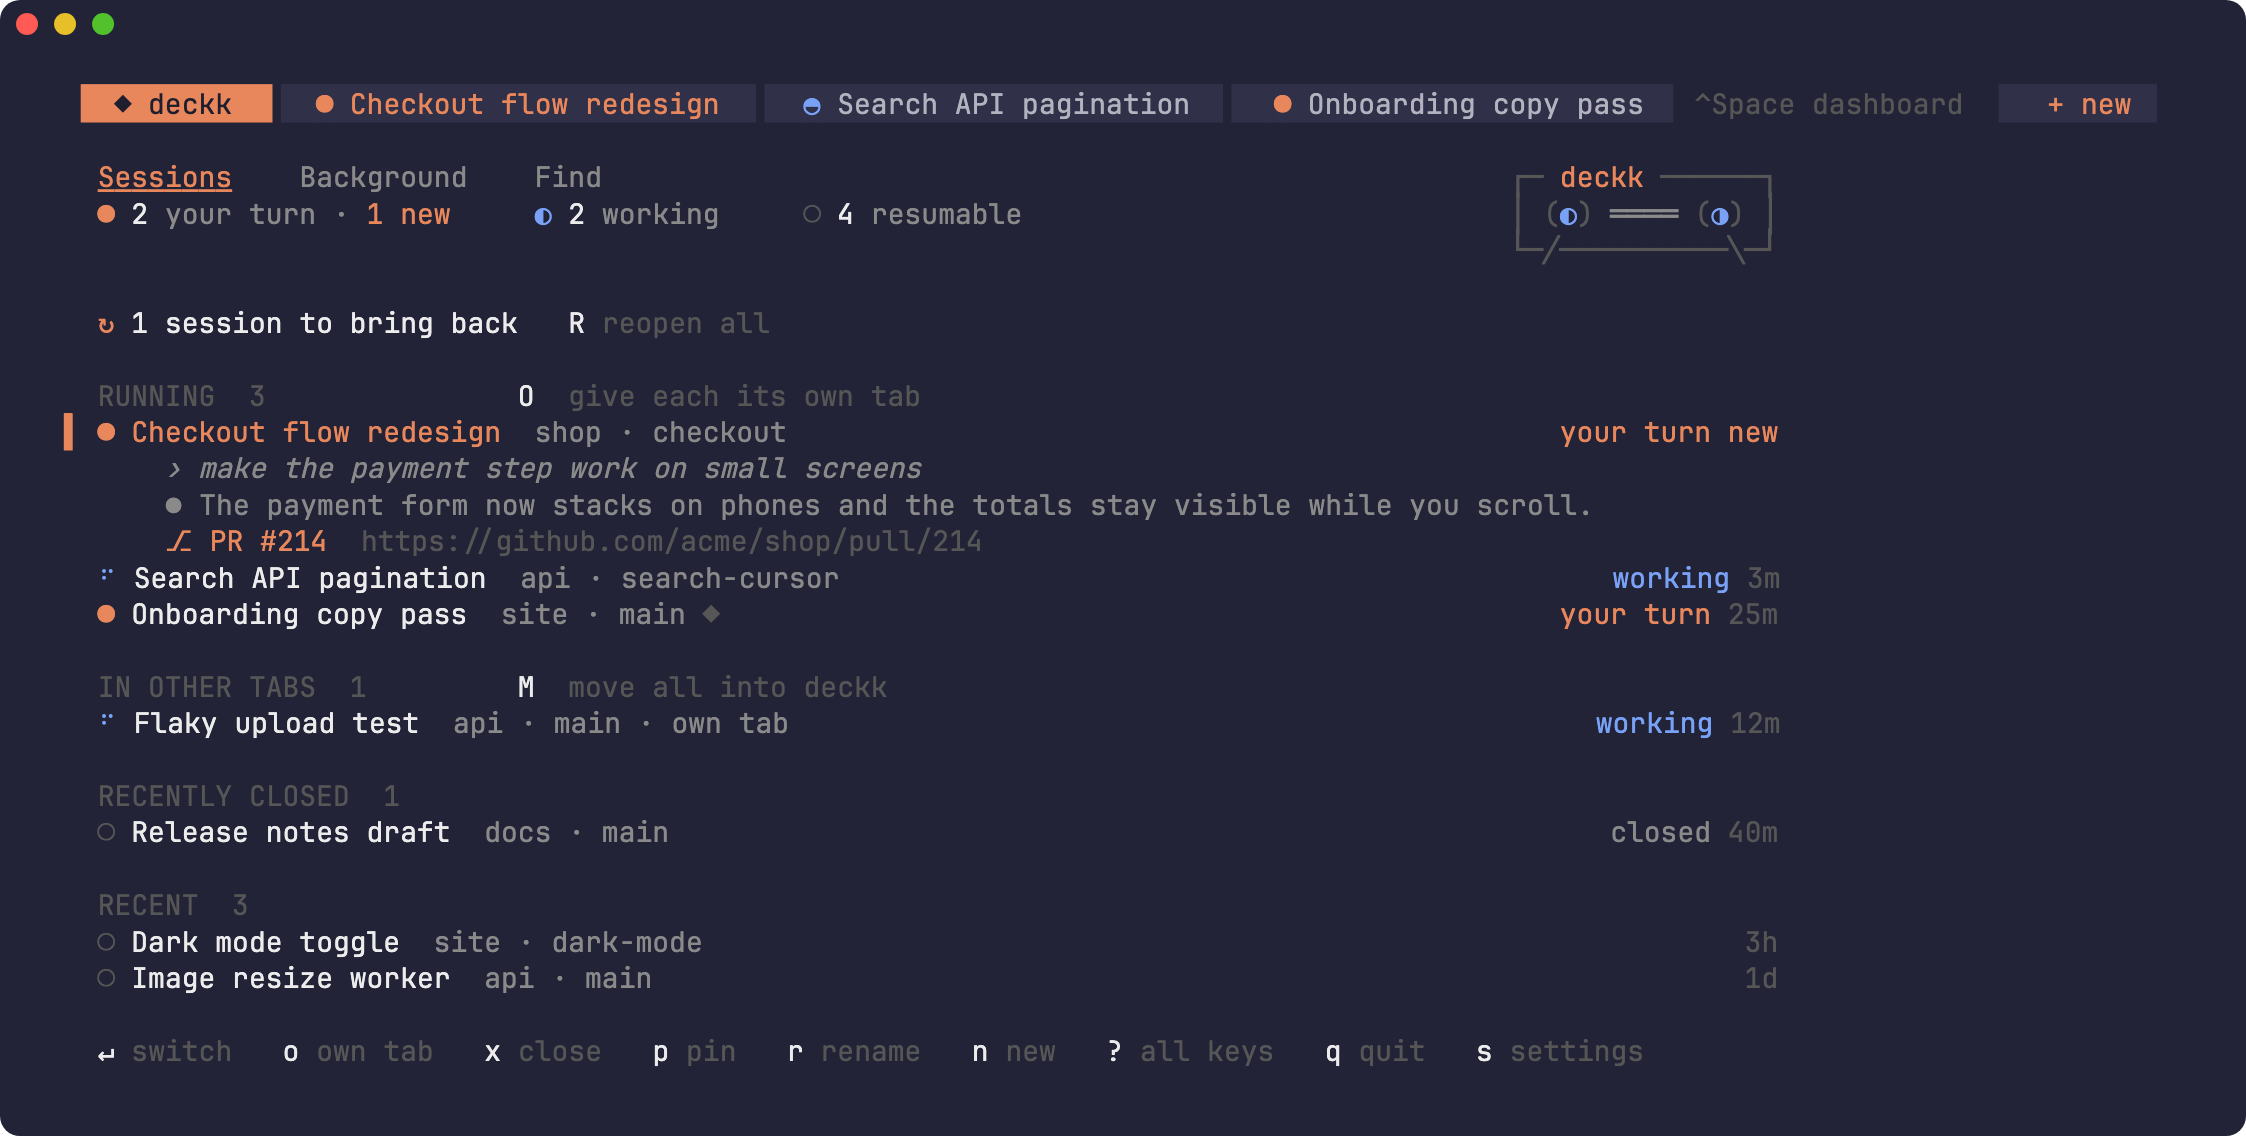
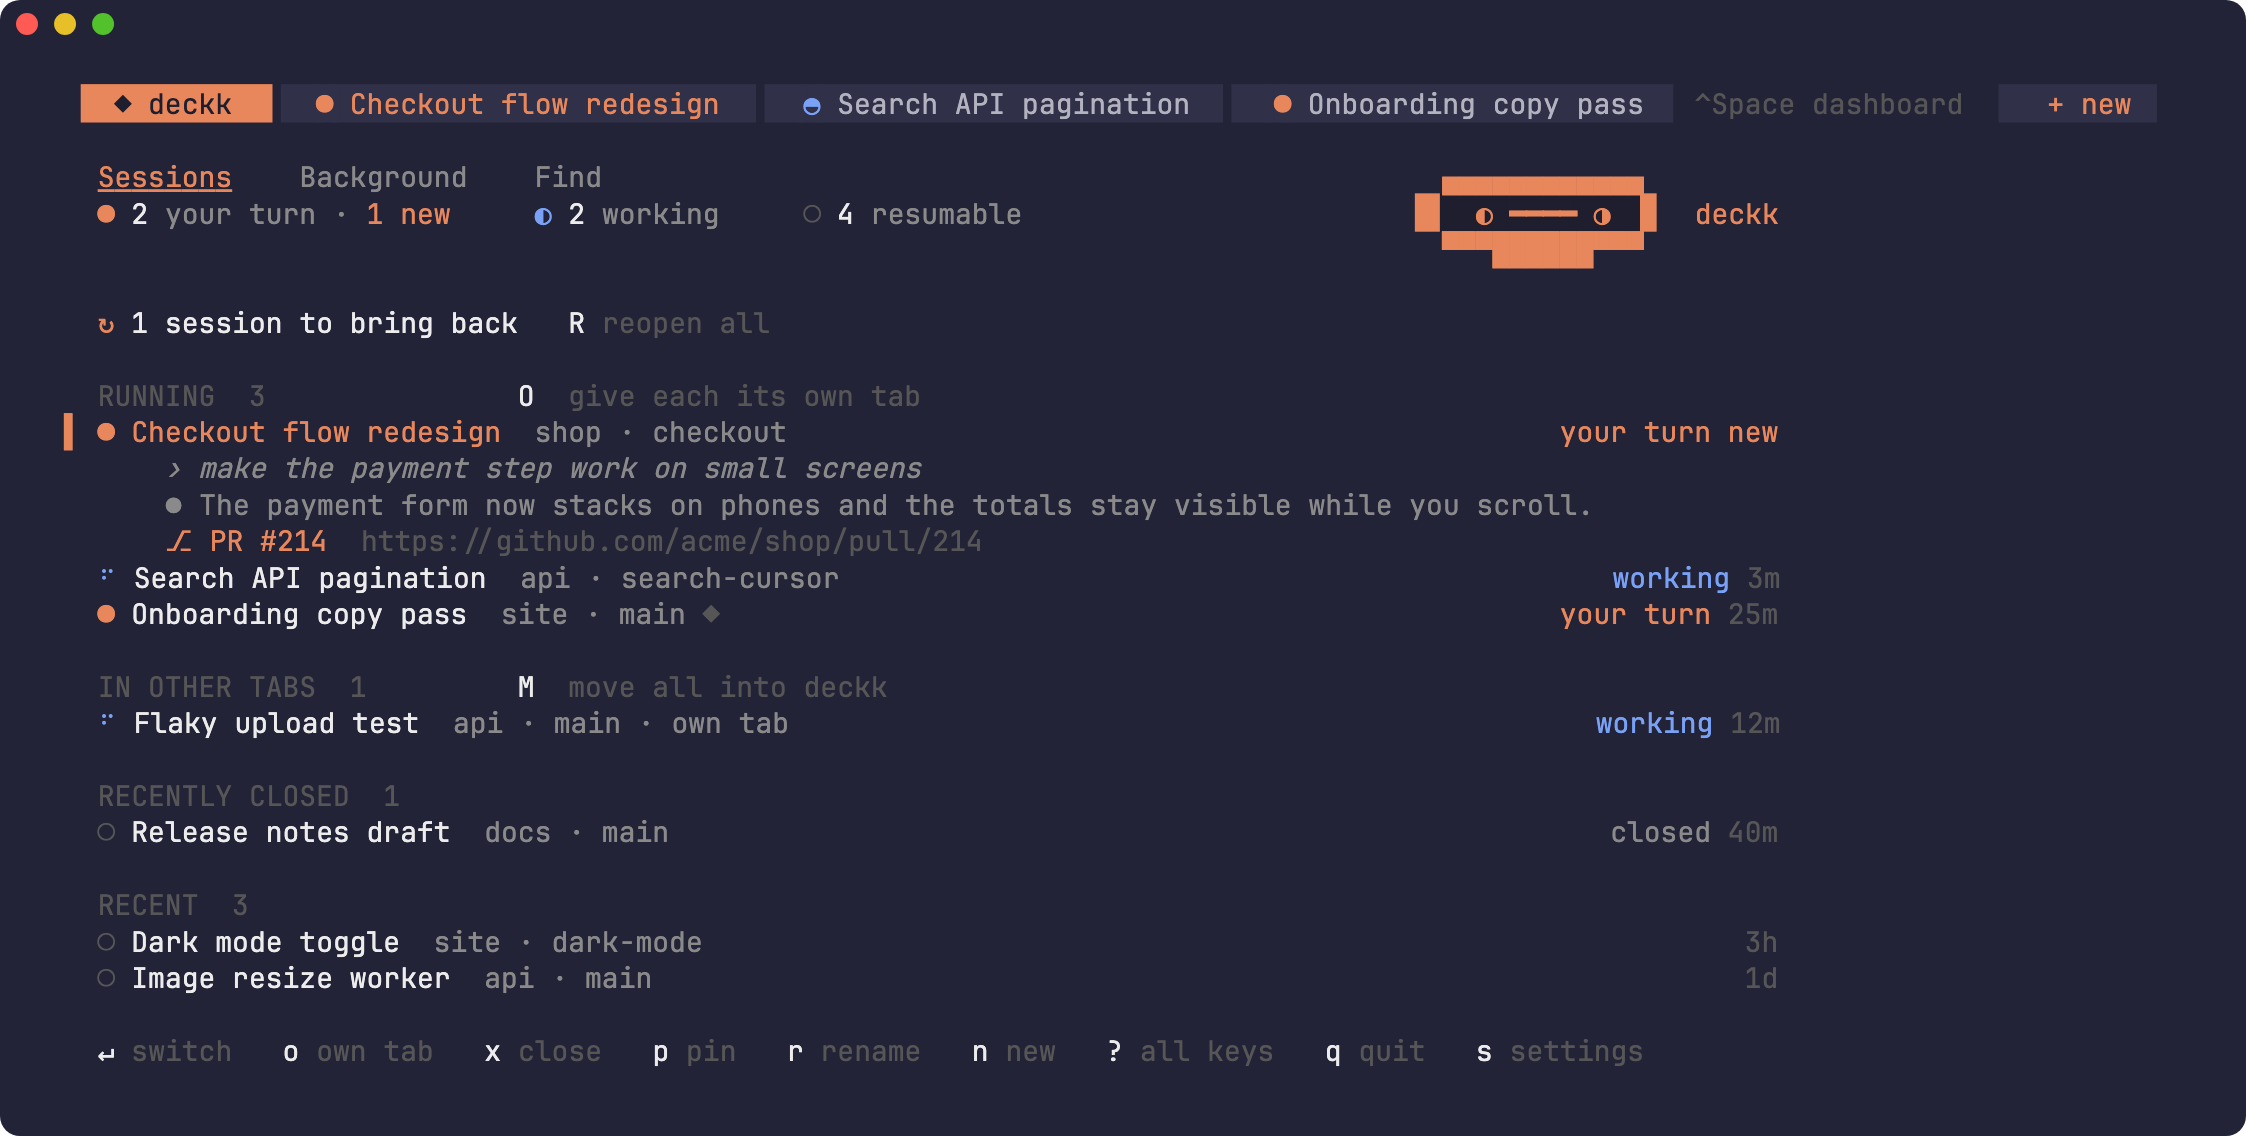
Redraw the cassette in solid cells
The old outline logo looked thin next to Claude Code's pixel mascot. The new one is a filled clay cassette with the reels in a dark tape window, built only from background colors and half blocks so every terminal and font draws it the same. The reels still turn while a session works.

Changed region(s): [[0.6233, 0.154, 0.8103, 0.2465]]

diff --git a/internal/ui/logo.go b/internal/ui/logo.go
@@ -12,33 +12,50 @@ const reelEvery = 6
 
 func reel(frame int) string { return reels[frame/3%len(reels)] }
 
-// Every line must stay exactly 32 cells wide or the tape won't center.
-func cassette(frame int) string {
-	r := accent.Render(reel(frame))
-	body := func(s string) string { return ghost.Render(s) }
-	lines := []string{
-		body("╭──────────────────────────────╮"),
-		body("│  ╭────────────────────────╮  │"),
-		body("│  │  ") + brand.Render("deckk") + dim.Render("         side A") + body("  │  │"),
-		body("│  │    ") + r + body("  ") + dim.Render("══════════") + body("  ") + r + body("    │  │"),
-		body("│  ╰────────────────────────╯  │"),
-		body("│      ╱────────────────╲      │"),
-		body("╰─────○──────────────────○─────╯"),
-	}
-	return strings.Join(lines, "\n")
+var (
+	ink   = lipgloss.Color("#1E1E2E")
+	cream = lipgloss.Color("#F4E9DC")
+
+	shell   = lipgloss.NewStyle().Foreground(clay)
+	body    = lipgloss.NewStyle().Background(clay).Foreground(ink)
+	hole    = lipgloss.NewStyle().Background(ink).Foreground(clay)
+	sticker = lipgloss.NewStyle().Background(cream).Foreground(ink)
+)
+
+// A cassette in solid cells, which every terminal and font draws the same.
+// The tape window is dark with the reels inside, and the bottom steps down
+// into the tab a real tape has.
+func tape(width, tab int, rows ...string) []string {
+	inset := (width - tab) / 2
+	lines := []string{shell.Render(" " + strings.Repeat("▄", width-2) + " ")}
+	lines = append(lines, rows...)
+	return append(lines, shell.Render(" "+strings.Repeat("▀", inset-1)+strings.Repeat("█", tab)+strings.Repeat("▀", width-tab-inset-1)+" "))
 }
 
+func window(left, right, film string, side int) string {
+	return hole.Render(strings.Repeat(" ", side)+left+" ") + hole.Faint(true).Render(film) + hole.Render(" "+right+strings.Repeat(" ", side))
+}
+
+// Every line is 32 cells wide so the splash centers.
+func cassette(frame int) string {
+	r := reel(frame)
+	label := sticker.Bold(true).Render(" deckk") + sticker.Render(strings.Repeat(" ", 15)) + sticker.Faint(true).Render("side A ")
+	return strings.Join(tape(32, 16,
+		body.Render("  ")+label+body.Render("  "),
+		body.Render("  ")+window(r, r, strings.Repeat("━", 16), 4)+body.Render("  "),
+		body.Render(strings.Repeat(" ", 32)),
+	), "\n")
+}
+
+// The reels only turn while a session is working.
 func miniDeck(frame int, spinning bool) []string {
-	left, right, reelStyle := "◐", "◐", accent
+	left, right := "◐", "◐"
 	if spinning {
-		left, right, reelStyle = reel(frame), reel(frame+6), working
+		left, right = reel(frame), reel(frame+6)
 	}
-	r := func(g string) string { return ghost.Render("(") + reelStyle.Render(g) + ghost.Render(")") }
-	return []string{
-		ghost.Render("┌─ ") + brand.Render("deckk") + ghost.Render(" ──────┐"),
-		ghost.Render("│ ") + r(left) + dim.Render(" ════ ") + r(right) + ghost.Render(" │"),
-		ghost.Render("└─╱──────────╲─┘"),
-	}
+	pad := strings.Repeat(" ", gutter)
+	lines := tape(14, 6, body.Render(" ")+window(left, right, "━━━━", 2)+body.Render(" "))
+	return []string{lines[0] + pad + "     ", lines[1] + pad + brand.Render("deckk"), lines[2] + pad + "     "}
 }
 
 func (m Model) splash() string {

diff --git a/README.md b/README.md
@@ -75,12 +75,15 @@ The first time deckk controls a terminal, macOS asks whether to allow it.
   and for how long. A session that finished while you were elsewhere is marked
   new until you open it.
 - **Context.** The selected row shows your last prompt, Claude's latest reply
-  and any pull request it opened.
+  and any pull request it opened. Under the tab strip, each tab shows its
+  status, folder, branch, worktree and pull request.
+- **Pins.** `p` saves a session to the Pinned list, where it stays after you
+  close it, however old it gets, until you unpin it.
 - **Sessions in other tabs.** Claude sessions started outside deckk show up
   too, and `m` moves them in.
 - **Background runs.** Headless sessions from `claude -p`, plugins and
   scripts get their own Background view, so they don't crowd your own.
-- **Restarts.** Sessions in deckk keep running if you quit iTerm2. After a
+- **Restarts.** Sessions in deckk keep running if you quit your terminal. After a
   reboot, the dashboard lists what was open, plus anything closed in the last
   day, and `R` reopens all of it.
 
